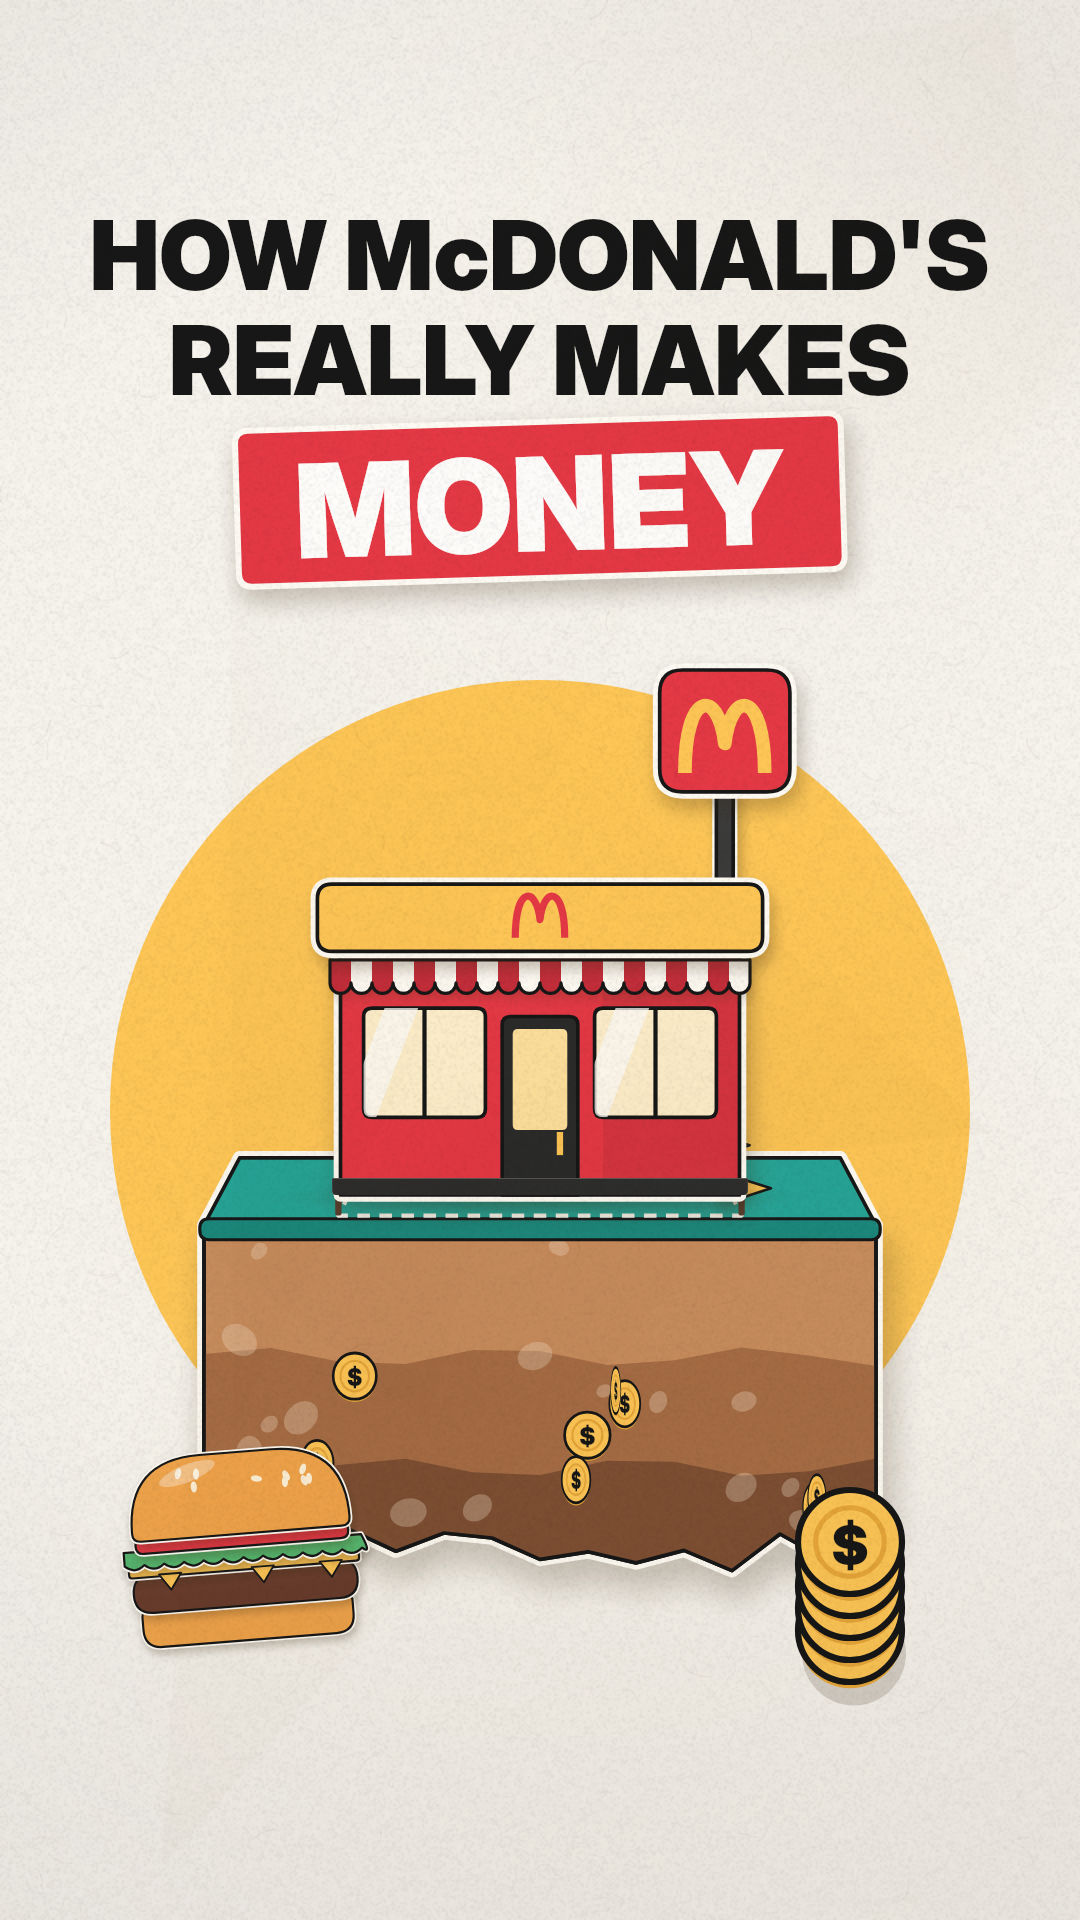
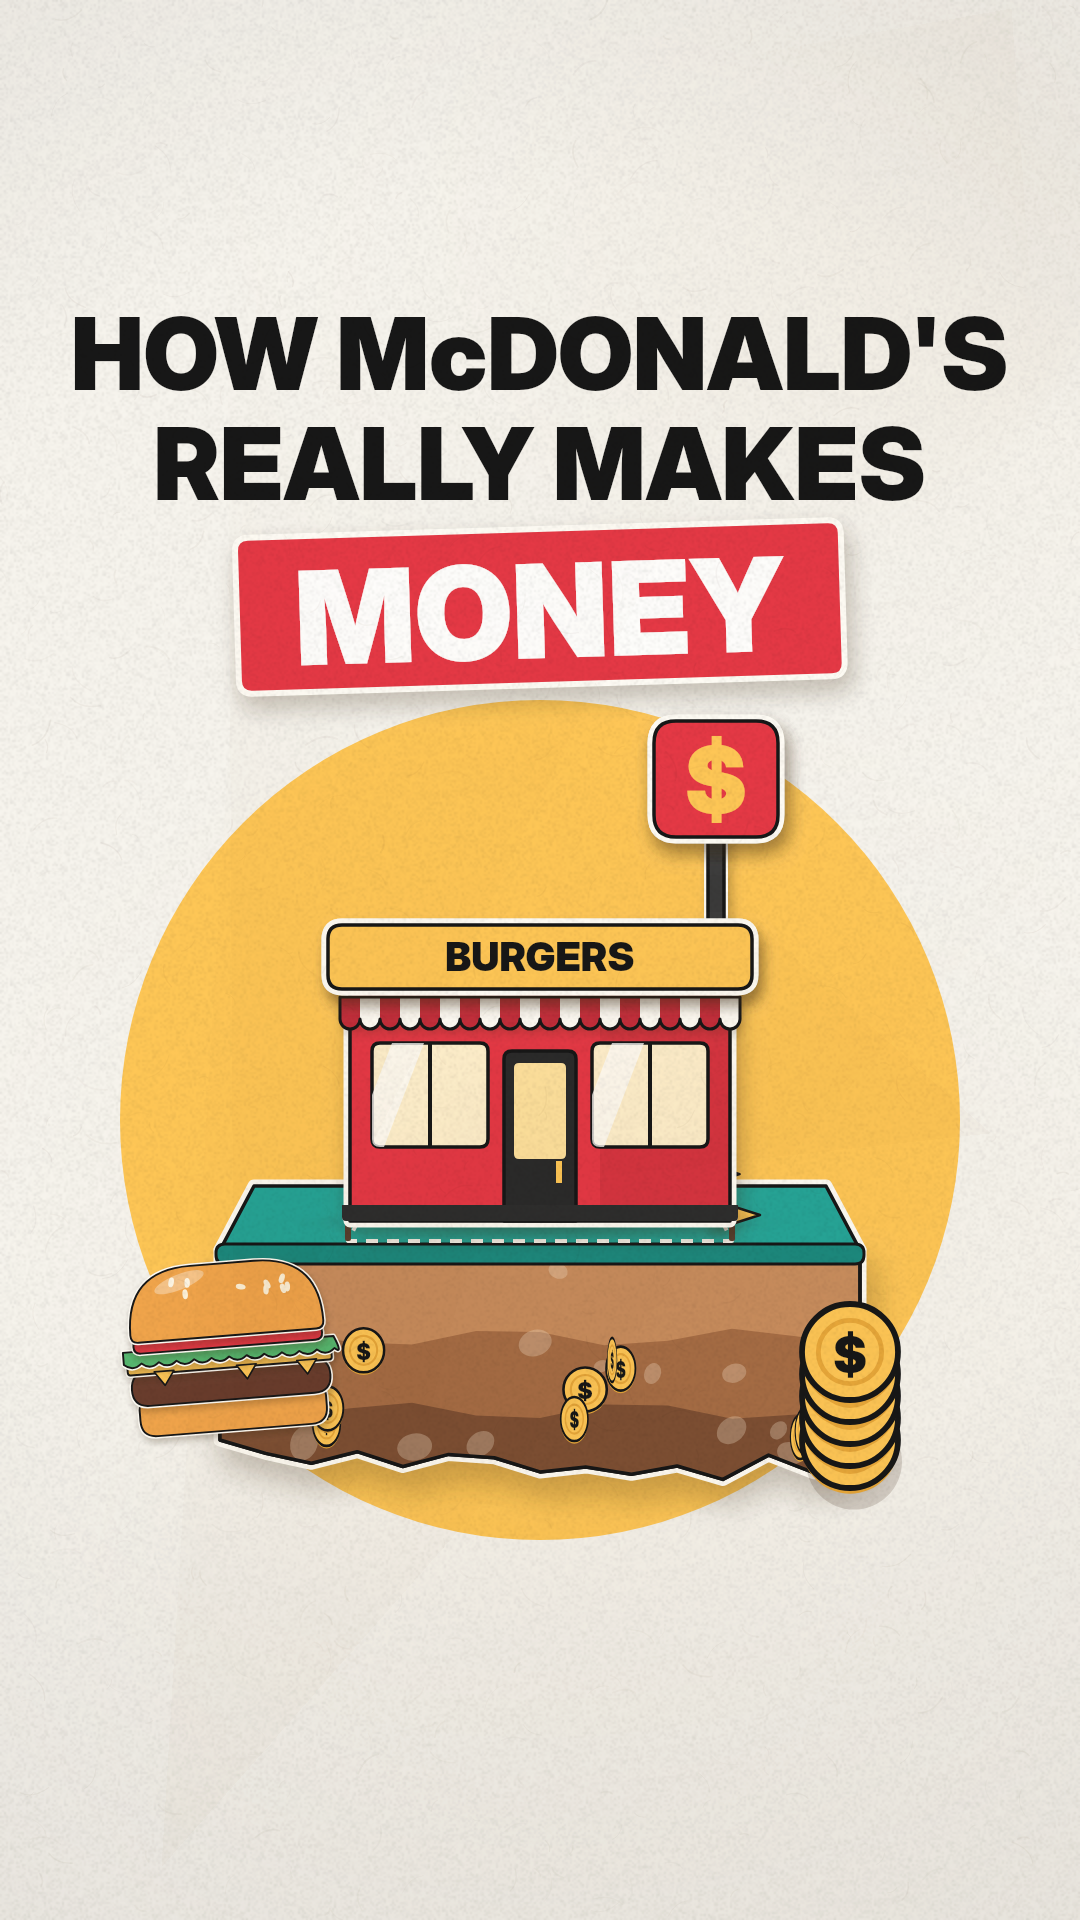
TikTok-safe covers for McDonald's, Airlines (final) and Car (v2) + COVERS.md rules
Claude-Session: https://claude.ai/code/session_01PbPL4oiE4inuLYKN53227b

Changed region(s): [[0.0611, 0.0938, 0.9472, 0.9062], [0.7944, 0.4375, 0.9167, 0.625], [0.8556, 0.625, 0.8861, 0.6875]]

diff --git a/mcd_ep1/cover.js b/mcd_ep1/cover.js
@@ -1,4 +1,4 @@
-// Cover 1080x1920 for "How McDonald's Really Makes Money": title + restaurant on its land (coins in the soil) + the burger.
+// Cover 1080x1920 for "How McDonald's Really Makes Money" (TikTok-safe: key content inside the 3:4 grid crop, no brand logos).
 // Usage: node cover.js cover.png   (uses the same kit as the video; the video itself is unchanged)
 require('./engine');
 const { createCanvas } = require('@napi-rs/canvas');
@@ -6,15 +6,19 @@ const K = require('../tests/mcd_collage/kit');
 const { C, F, cut, rr, restaurant, slab, burgerMoney, coin, contact } = K;
 const W = 1080, H = 1920, c = createCanvas(W, H), x = c.getContext('2d');
 x.fillStyle = C.paper; x.fillRect(0, 0, W, H);
-x.fillStyle = C.yellow; x.beginPath(); x.arc(540, 1110, 430, 0, 7); x.fill();
-// title
-x.textAlign = 'center'; x.fillStyle = C.ink; x.font = `96px ${F.black}`; x.fillText("HOW McDONALD'S", 540, 290); x.fillText('REALLY MAKES', 540, 395);
-x.save(); x.translate(540, 505); x.rotate(-0.03); cut(x, () => rr(x, -300, -80, 600, 150, 10), C.red, { lw: 0, sb: 24, sy: 12, edgeW: 12 }); x.fillStyle = '#FFFFFF'; x.font = `130px ${F.black}`; x.fillText('MONEY', 0, 46); x.restore();
-// restaurant on its land, coins buried in the soil
-slab(x, 540, 1225, 1.05, { w: 640, depth: 330, top: 64, coins: 1, plot: 1 });
-contact(x, 540, 1225 - 30 + 2, 250 * 1.05, 18, 0.25); restaurant(x, 540, 1225 - 30, 1.05);
-// the burger in front, and a little stack of coins
-x.save(); x.translate(250, 1640); x.rotate(-0.08); burgerMoney(x, 0, 0, 0.62, 0); x.restore();
-for (let i = 0; i < 5; i++) coin(x, 850, 1630 - i * 22, 52, 0.02, { flat: i > 0 });
+x.fillStyle = C.yellow; x.beginPath(); x.arc(540, 1120, 420, 0, 7); x.fill();
+// title inside the 3:4 profile-grid crop (y 240..1680) and away from the right-hand buttons
+x.textAlign = 'center'; x.fillStyle = C.ink; x.font = `100px ${F.black}`; x.fillText("HOW McDONALD'S", 540, 390); x.fillText('REALLY MAKES', 540, 500);
+x.save(); x.translate(540, 612); x.rotate(-0.03); cut(x, () => rr(x, -300, -80, 600, 150, 10), C.red, { lw: 0, sb: 24, sy: 12, edgeW: 12 }); x.fillStyle = '#FFFFFF'; x.font = `130px ${F.black}`; x.fillText('MONEY', 0, 46); x.restore();
+// restaurant on its land, coins buried in the soil; logos replaced (sign "$", roof "BURGERS") so the cover never looks like brand artwork
+const G = 1250, S = 1.0;
+slab(x, 540, G, S, { w: 640, depth: 230, top: 64, coins: 1, plot: 1 });
+contact(x, 540, G - 29 + 2, 250 * S, 18, 0.25); restaurant(x, 540, G - 29, S);
+x.save(); x.translate(540, G - 29); x.scale(S, S);
+cut(x, () => rr(x, 114, -500, 124, 116, 22), C.red, { sb: 18 }); x.fillStyle = C.yellow; x.font = `92px ${F.black}`; x.textAlign = 'center'; x.fillText('$', 176, -408);
+cut(x, () => rr(x, -212, -296, 424, 64, 14), C.yellow, { sb: 14 }); x.fillStyle = C.ink; x.font = `40px ${F.black}`; x.fillText('BURGERS', 0, -250);
+x.restore();
+x.save(); x.translate(235, 1430); x.rotate(-0.08); burgerMoney(x, 0, 0, 0.55, 0); x.restore();
+for (let i = 0; i < 5; i++) coin(x, 850, 1440 - i * 22, 48, 0.02, { flat: i > 0 });
 x.save(); x.globalCompositeOperation = 'multiply'; x.globalAlpha = 0.6; x.drawImage(K.paperTexture(W, H), 0, 0); x.restore();
 require('fs').writeFileSync(process.argv[2] || 'cover.png', c.toBuffer('image/png'));

diff --git a/air_ep2/cover_final.js b/air_ep2/cover_final.js
@@ -1,0 +1,16 @@
+// Cover 1080x1920 for the final airline cut (TikTok-safe: key content inside the 3:4 grid crop, nothing in the caption zone).
+require('../mcd_ep1/engine');
+const { createCanvas } = require('@napi-rs/canvas');
+const K = require('../tests/mcd_collage/kit');
+const { C, F, cut, rr } = K;
+const { A2, ticket, stamp, airliner } = require('./airkit');
+const W = 1080, H = 1920, c = createCanvas(W, H), x = c.getContext('2d');
+const g = x.createLinearGradient(0, 0, 0, H); g.addColorStop(0, A2.sky1); g.addColorStop(1, A2.sky2); x.fillStyle = g; x.fillRect(0, 0, W, H);
+const back = createCanvas(W, H), b = back.getContext('2d'); b.translate(600, 860); b.rotate(-0.1); b.scale(0.7, 0.7); airliner(b);
+x.save(); x.filter = 'blur(3px)'; x.drawImage(back, 0, 0); x.restore();
+x.textAlign = 'center'; x.fillStyle = '#FFFFFF'; x.font = `104px ${F.black}`; x.fillText('WHY AIRLINES', 540, 390);
+x.save(); x.translate(540, 505); x.rotate(-0.03); cut(x, () => rr(x, -360, -80, 720, 150, 10), C.red, { lw: 0, sb: 24, sy: 12, edgeW: 12 }); x.fillStyle = '#FFFFFF'; x.font = `122px ${F.black}`; x.fillText('OVERSELL', 0, 44); x.restore();
+x.fillStyle = '#FFFFFF'; x.font = `104px ${F.black}`; x.fillText('SEATS', 540, 690);
+x.save(); x.translate(520, 1160); x.rotate(-0.05); x.scale(0.6, 0.6); ticket(x, { bg: A2.sky2, seat: '14C' }); stamp(x, 'CONFIRMED', 10, 150, 0.72, 1, 0.1, '#1E9E6A'); stamp(x, 'NO SEAT?!', 0, 20, 1.08, 1, -0.2, C.red); x.restore();
+x.save(); x.globalCompositeOperation = 'multiply'; x.globalAlpha = 0.6; x.drawImage(K.paperTexture(W, H), 0, 0); x.restore();
+require('fs').writeFileSync(process.argv[2] || 'cover.png', c.toBuffer('image/png'));

diff --git a/car_ep3/v2/cover.js b/car_ep3/v2/cover.js
@@ -1,0 +1,17 @@
+// Cover 1080x1920 for the v2 car cut (TikTok-safe: key content inside the 3:4 grid crop, nothing in the caption zone).
+require('../../mcd_ep1/engine');
+const { createCanvas } = require('@napi-rs/canvas');
+const K = require('../../tests/mcd_collage/kit');
+const { C, F, cut, rr } = K;
+const { page } = require('../carkit');
+const { roadScene, carTurn } = require('./car3d');
+const W = 1080, H = 1920, c = createCanvas(W, H), x = c.getContext('2d');
+x.fillStyle = '#0E1326'; x.fillRect(0, 0, W, H);
+x.save(); x.translate(540, 1030); x.scale(1.25, 1.25); roadScene(x, 2.0, { speed: 1, car: false }); x.restore();
+x.textAlign = 'center'; x.fillStyle = '#FFFFFF'; x.font = `108px ${F.black}`; x.fillText('YOUR CAR WAS', 540, 390);
+x.save(); x.translate(540, 505); x.rotate(-0.03); cut(x, () => rr(x, -400, -80, 800, 150, 10), C.red, { lw: 0, sb: 24, sy: 12, edgeW: 12 }); x.fillStyle = '#FFFFFF'; x.font = `122px ${F.black}`; x.fillText('REPORTING', 0, 44); x.restore();
+x.fillStyle = '#FFFFFF'; x.font = `108px ${F.black}`; x.fillText('ON YOU', 540, 690);
+for (let i = 0; i < 5; i++) { x.save(); x.translate(470 + i * 70 - (i % 2) * 40, 1060 - i * 70); x.rotate((i - 2) * 0.18); x.scale(0.42 - i * 0.04, 0.42 - i * 0.04); page(x, i); x.restore(); } // records leaving the car
+x.save(); x.translate(505, 1440); x.scale(0.78, 0.78); carTurn(x, 0.75, { glass: '#12151F', lights: true }); x.restore();
+x.save(); x.globalCompositeOperation = 'multiply'; x.globalAlpha = 0.6; x.drawImage(K.paperTexture(W, H), 0, 0); x.restore();
+require('fs').writeFileSync(process.argv[2] || 'cover.png', c.toBuffer('image/png'));

diff --git a/COVERS.md b/COVERS.md
@@ -1,0 +1,11 @@
+# TikTok covers — house rules (used for all episodes)
+
+- Size 1080x1920 (9:16), PNG/JPG. Upload it in the app: post screen -> Edit cover -> upload image (or pick a frame).
+- Profile grid shows only a centred ~3:4 crop (about y 240..1680): title and the main object must sit inside it.
+- In the feed the cover sits under the UI: keep the title and hero out of the caption area (y > ~1500) and the right-hand buttons (x > ~940, y ~800..1500).
+- One headline of 3-5 words in 2-3 lines, high contrast, one key word on a red strip; one hero object; max 3-4 elements.
+- The cover must match the video (no misleading clickbait).
+- Brands: naming a brand in commentary is fine, but don't put a brand's logo/mark on the cover in a way that could look official or affiliated
+  (the McDonald's cover uses a "$" sign and "BURGERS" instead of the arches).
+
+Covers: mcd_ep1/how_mcdonalds_really_makes_money_cover.png · air_ep2/why_airlines_oversell_seats_final_cover.png · car_ep3/v2/your_car_was_reporting_on_you_v2_cover.png
